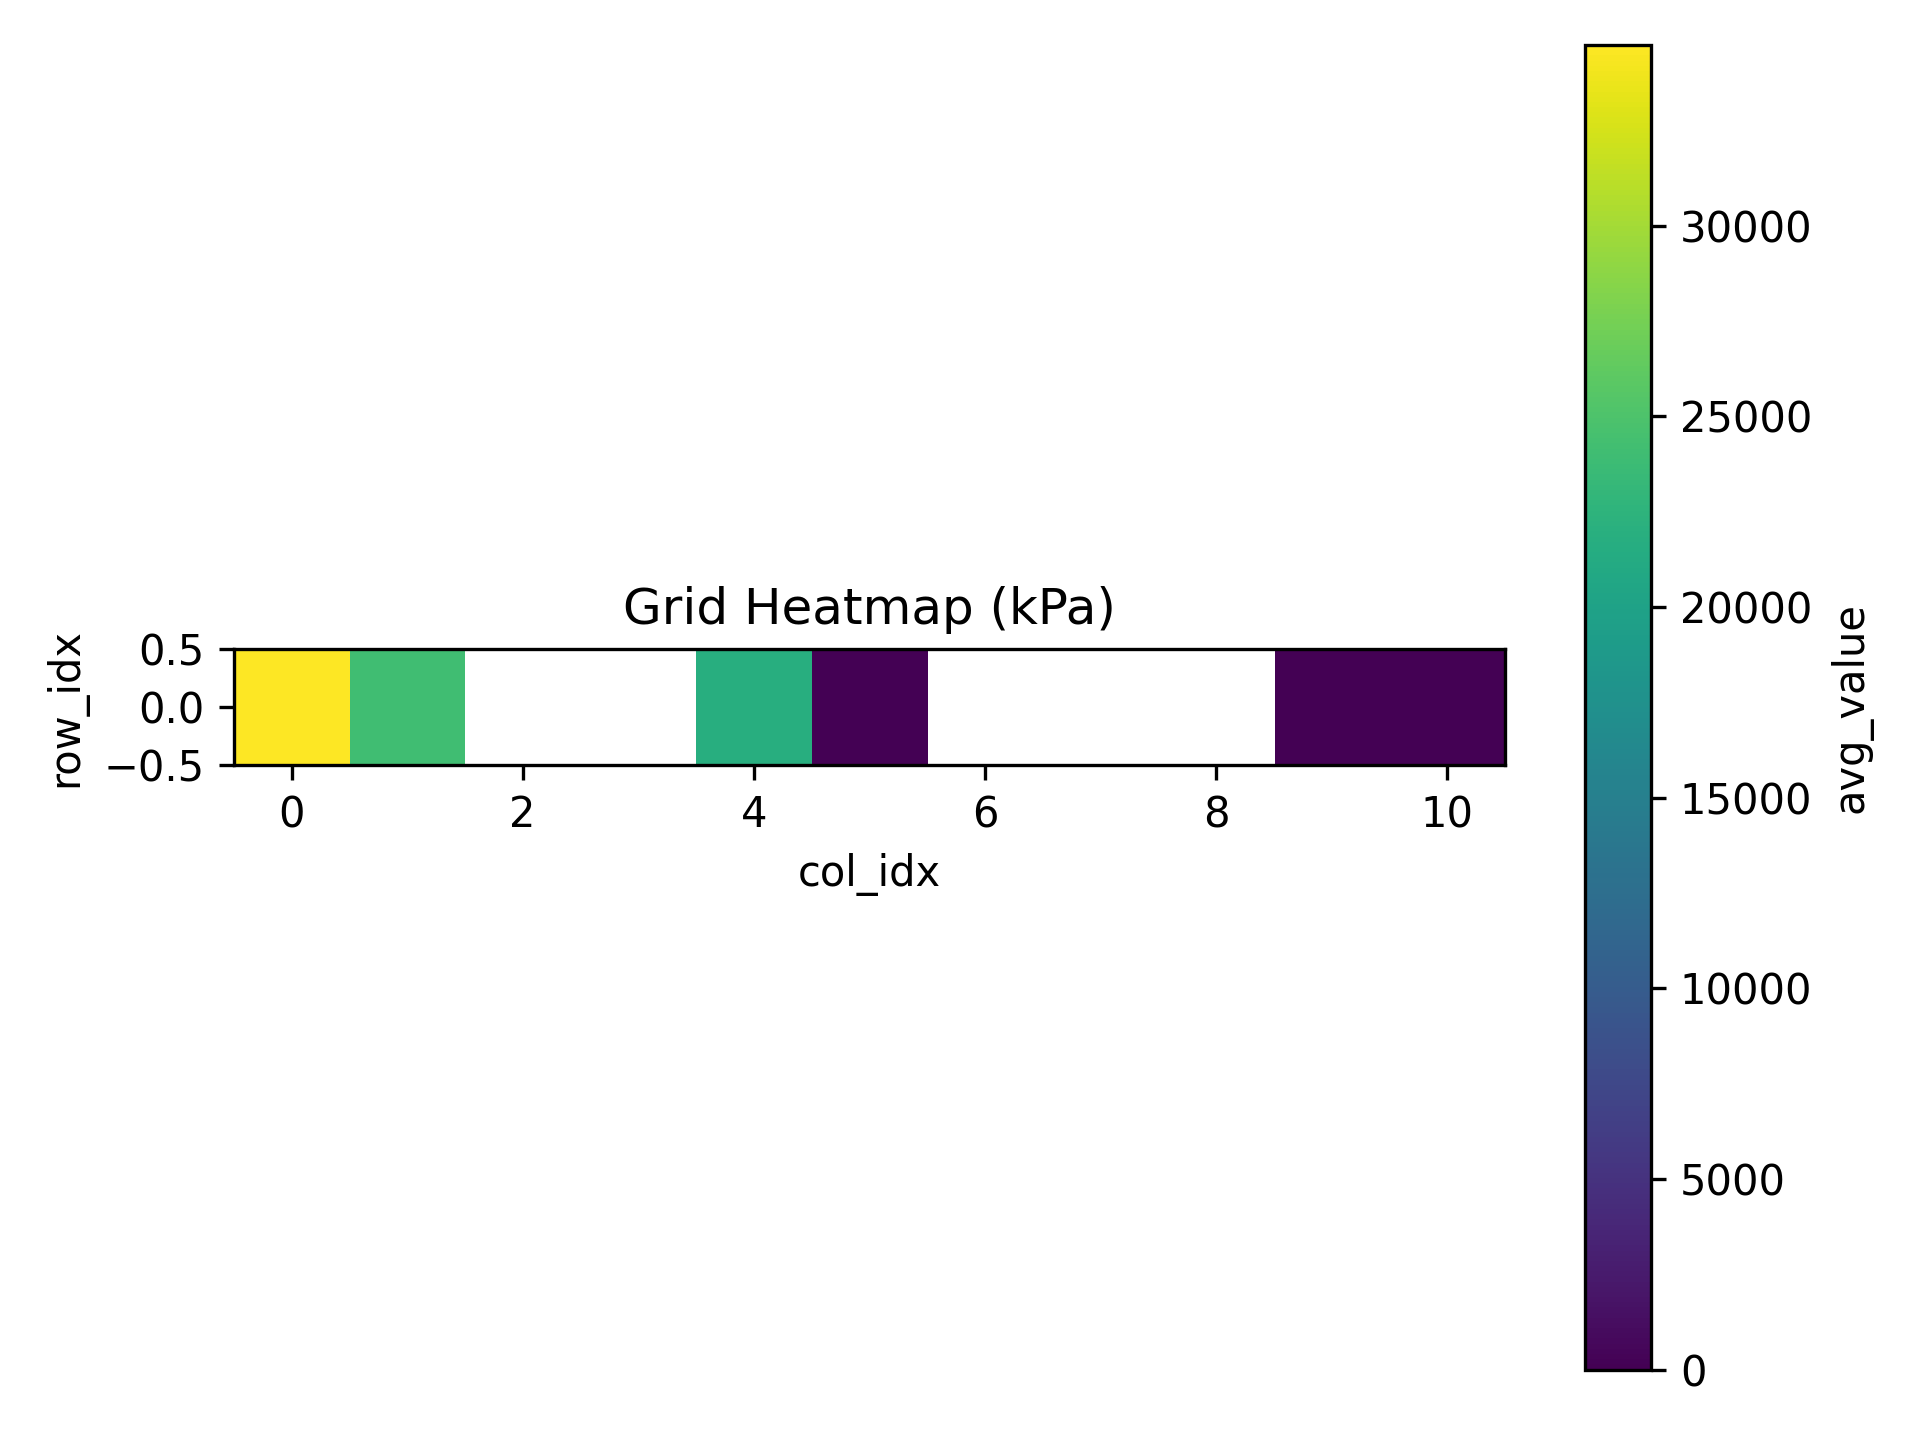
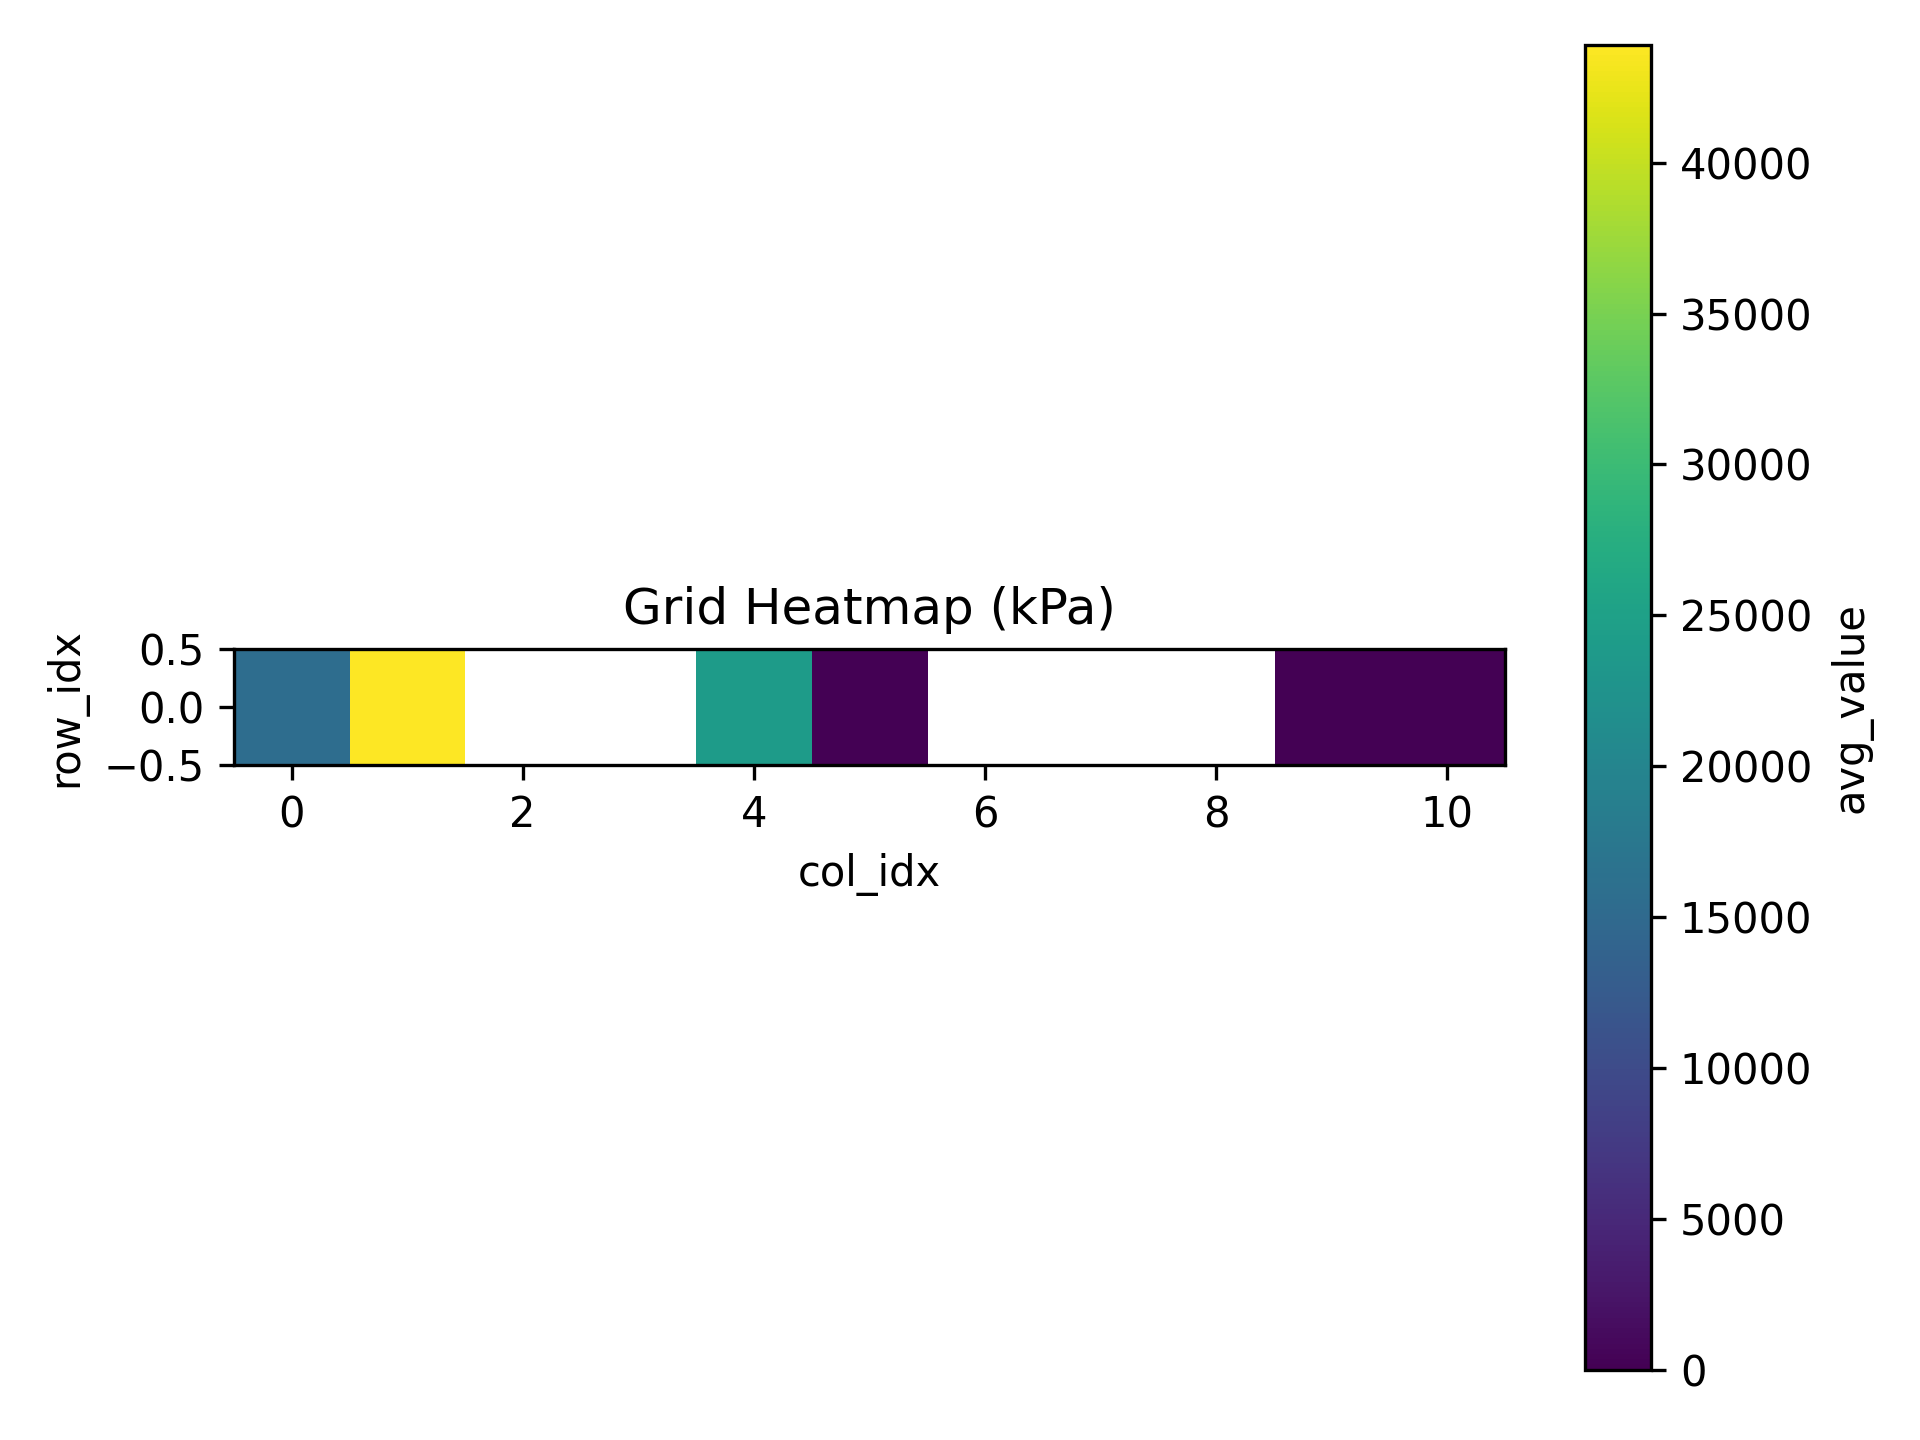
Expand stats filter ranges and improve legend placement
Updated stats filter min/max values in config and job manifests to allow a wider range of modulus values. Added support for external legend placement via 'legend_bbox' in plotting configuration and plotting code. Improved handling of empty stats filter results in run_pygwy_job.py by supporting a 'blank' policy. Updated output plots and summary CSVs to reflect new filtering and plotting behavior.

diff --git a/src/afm_pipeline/plotting.py b/src/afm_pipeline/plotting.py
@@ -324,7 +324,11 @@ def plot_heatmap_grid(rows: List[Dict[str, Any]], plotting_def: Dict[str, Any], 
                 handles = _sigma_legend_handles(list(sigma_bins), list(colors), marker="s")
                 if handles:
                     loc = overlay_cfg.get("legend_loc", "upper right")
-                    ax.legend(handles=handles, title=f"{ov_field} σ-bins", loc=loc, fontsize=7, title_fontsize=8, framealpha=0.8)
+                    bbox = overlay_cfg.get("legend_bbox")  # e.g., [1.05, 1] to place outside
+                    if bbox:
+                        ax.legend(handles=handles, title=f"{ov_field} σ-bins", loc=loc, bbox_to_anchor=tuple(bbox), fontsize=7, title_fontsize=8, framealpha=0.8)
+                    else:
+                        ax.legend(handles=handles, title=f"{ov_field} σ-bins", loc=loc, fontsize=7, title_fontsize=8, framealpha=0.8)
 
     # Optional alpha overlay driven by another field (e.g., std_value)
     alpha_cfg = plotting_def.get("overlay_alpha") or {}
@@ -618,7 +622,11 @@ def plot_heatmap_grid_bubbles(rows: List[Dict[str, Any]], plotting_def: Dict[str
         handles = _sigma_legend_handles(list(sigma_bins), list(colors), marker="o")
         if handles:
             loc = overlay_cfg.get("legend_loc", "upper right")
-            ax.legend(handles=handles, title=f"{ov_field} σ-bins", loc=loc, fontsize=7, title_fontsize=8, framealpha=0.8)
+            bbox = overlay_cfg.get("legend_bbox")
+            if bbox:
+                ax.legend(handles=handles, title=f"{ov_field} σ-bins", loc=loc, bbox_to_anchor=tuple(bbox), fontsize=7, title_fontsize=8, framealpha=0.8)
+            else:
+                ax.legend(handles=handles, title=f"{ov_field} σ-bins", loc=loc, fontsize=7, title_fontsize=8, framealpha=0.8)
 
     ax.set_xlabel("col_idx")
     ax.set_ylabel("row_idx")

diff --git a/scripts/run_pygwy_job.py b/scripts/run_pygwy_job.py
@@ -1504,7 +1504,11 @@ def _to_mode_result(field, mode_def, processing_mode, src_path, mask=None, mask_
             if policy == "skip_row":
                 sys.stderr.write("WARN: Stats filter removed all pixels; skipping row for %s\n" % src_path)
                 return None
-            if policy == "warn":
+            if policy == "blank":
+                sys.stderr.write("WARN: Stats filter removed all pixels; marking row blank for %s\n" % src_path)
+                mean_val = float("nan")
+                std_val = float("nan")
+            elif policy == "warn":
                 sys.stderr.write("WARN: Stats filter removed all pixels; writing zeros for %s\n" % src_path)
             else:
                 raise RuntimeError("Stats filter removed all pixels for %s" % src_path)
